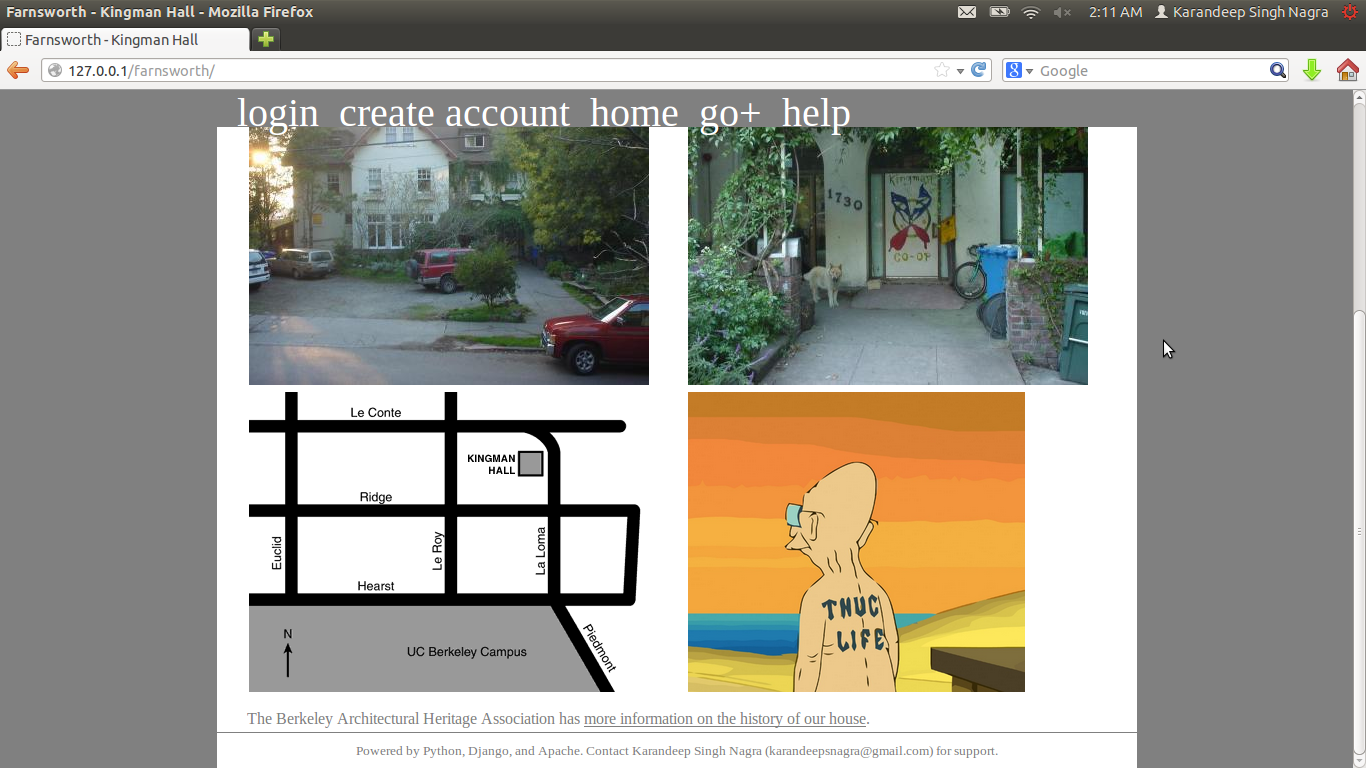
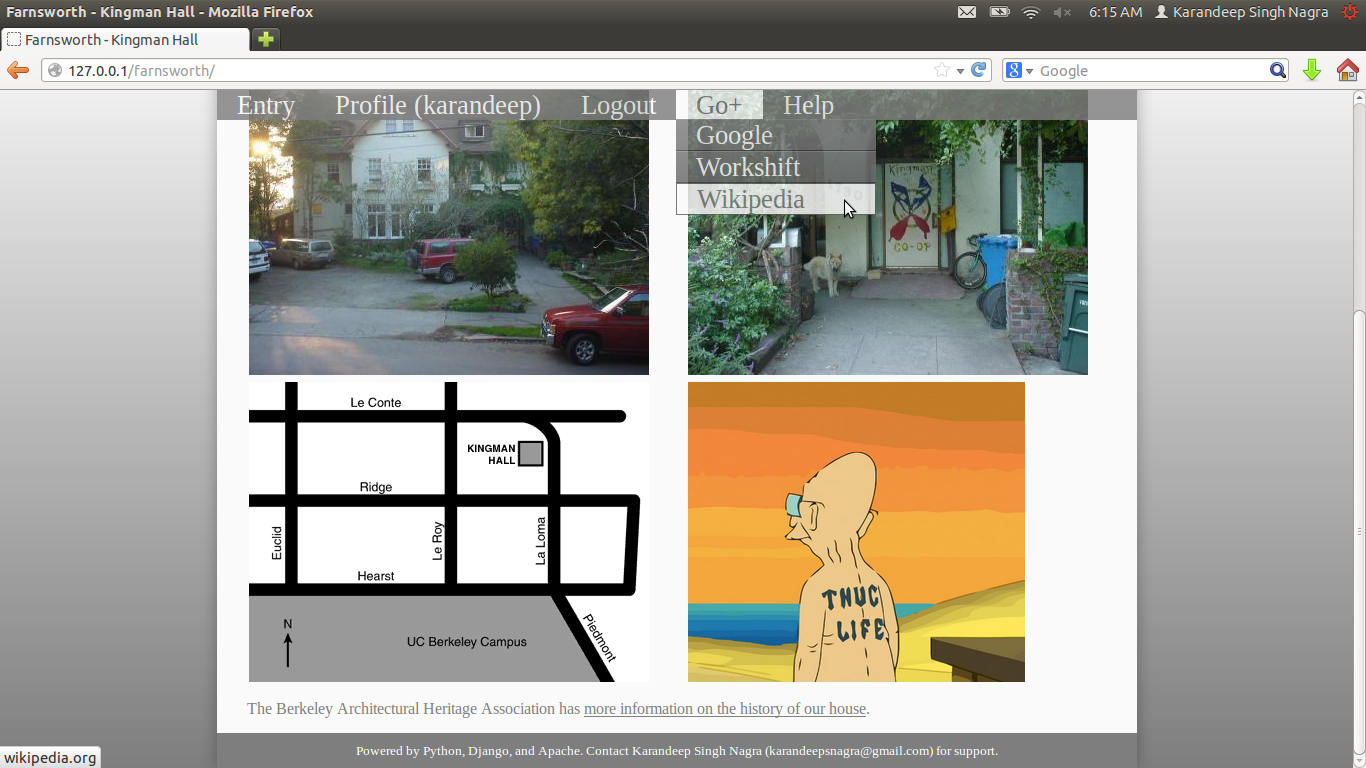
added new photos, minor ui updates

diff --git a/static/ui/css/base.css b/static/ui/css/base.css
@@ -52,7 +52,7 @@ body {
 	list-style: none;
 	display: inline-table;
 	width: 920px;
-	height: 32px;
+	height: 30px;
 	position: relative;
 	z-index: 2;
 	overflow: hidden;
@@ -67,7 +67,7 @@ body {
 	padding: 0;
 	color: black;
 	position: fixed;
-	top: 32px;
+	top: 29px;
 	width: 200px;
 	height: auto;
 }
@@ -154,7 +154,7 @@ h1 {
 }
 
 #title {
-	margin-top: 60px;
+	margin-top: 50px;
 	margin-left: 30px;
 	float: center;
 	width: 100%;
